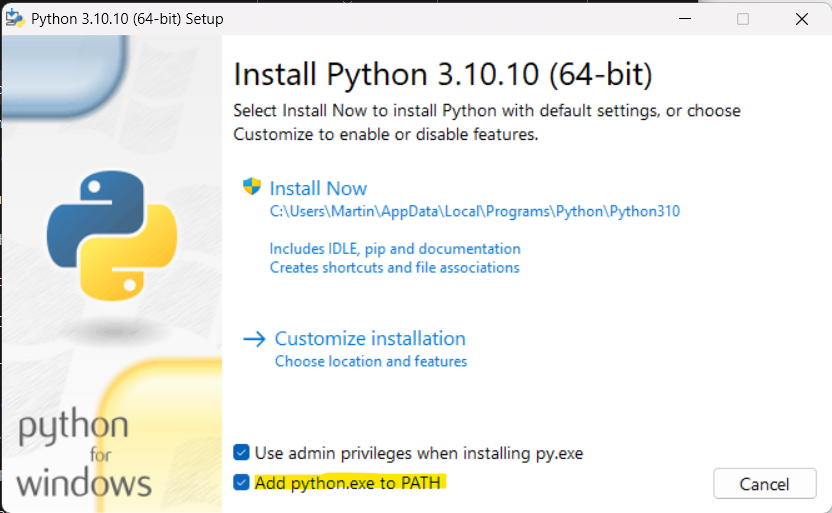
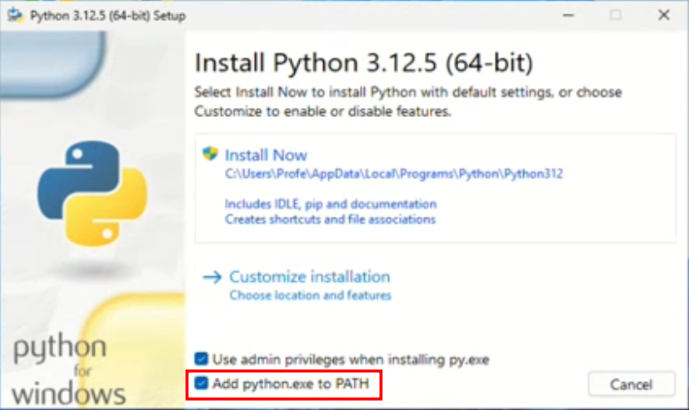
pujats canvis

diff --git a/README.md b/README.md
@@ -22,6 +22,8 @@ Un cop finalitzada la descàrrega, feu doble clic a l'instal·lador per iniciar-
 
 Veureu la pantalla de benvinguda de l'instal·lador que descriu què farà l'instal·lador.
 
+<!-- ![alt text](img/03-installacio-pas01-old.png) -->
+
 ![alt text](img/03-installacio-pas01.png)
 
 > [!TIP]
@@ -29,7 +31,8 @@ Veureu la pantalla de benvinguda de l'instal·lador que descriu què farà l'ins
 
 Quan estigueu preparat per ser la instal·lació, podeu fer clic a **Install Now** (***Instal·la ara***).
 
-![alt text](img/04-installacio-pas02.png)
+![alt text](img/04-installacio-pas02-old.png)
+
 
 La instal·lació continuarà amb normalitat, instal·lant totes les biblioteques necessàries (incloent **`Tcl/Tk`** per a **`Tkinter`**). Un cop completat, podeu sortir de l'instal·lador.
 
